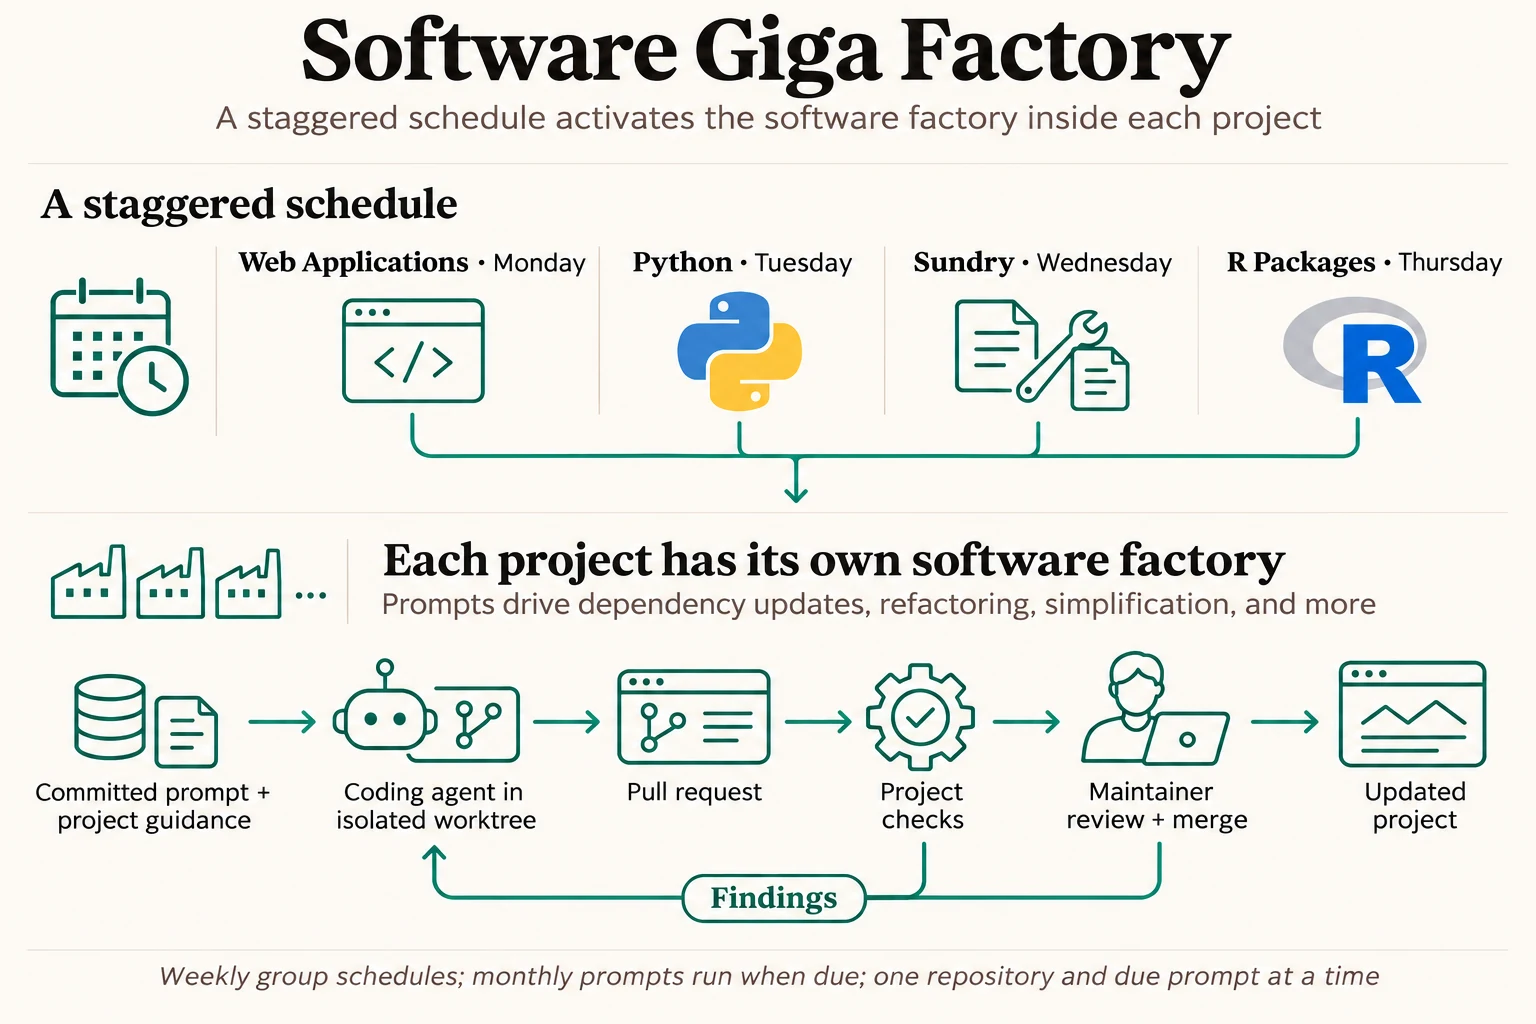
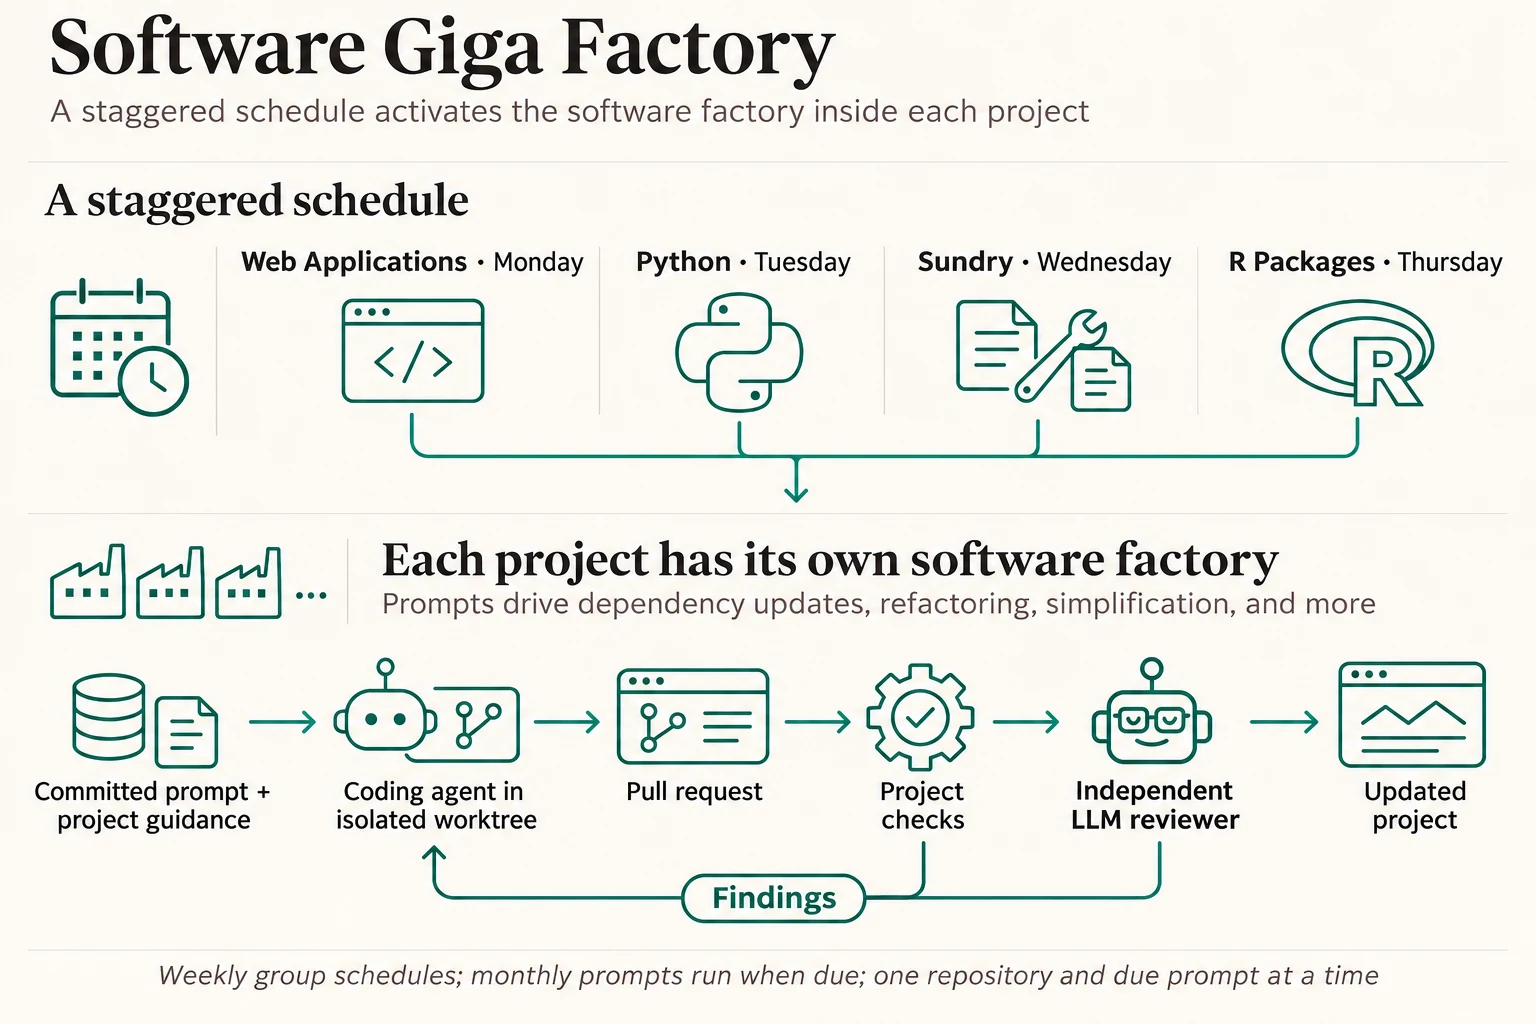
docs(illustrations): show independent llm review (#24)
## Summary

- Restyle the Software Giga Factory illustration to match the
architecture figure.
- Show monochrome Python and R marks and a complete project workflow
with an independent LLM reviewer.
- Synchronise the illustration prompt and README description.

## Validation

- `make hooks`
- `make docs`
- `git diff --check`

## Preview

![Software Giga Factory
illustration](https://raw.githubusercontent.com/IndrajeetPatil/llm-dependabot/docs/independent-llm-reviewer/docs/images/giga-factory.webp)

diff --git a/docs/images/README.md b/docs/images/README.md
@@ -80,17 +80,17 @@ Keep the three horizontal bands aligned, with summaries left and flows right. Ex
 
 
 ```text
-Use case: infographic-diagram. Asset type: README overview illustration for llm-dependabot, a scheduler that runs repository-owned coding prompts with an agent. Create a landscape 3:2 editorial diagram titled exactly “Software Giga Factory”. Show a hierarchy: a staggered schedule coordinates many software projects, and each project contains its own software factory. The schedule hub is the Giga Factory; the project-level development and review cycle is a factory repeated independently in each project.
+Use case: infographic-diagram. Asset type: README overview illustration for llm-dependabot, a scheduler that runs repository-owned coding prompts with an agent. Create a landscape 3:2 editorial diagram titled exactly “Software Giga Factory”. Use docs/images/architecture-overview.webp, “How llm-dependabot works”, as the visual style reference: warm paper #faf8f4, ink #201d18, muted ink #5d574c, hairlines #e3ded2, restrained teal #14584d, Fraunces-like serif headings, Hanken-like sans labels, flat single-colour outline icons, thin orthogonal arrows, and generous whitespace. Match its restrained typography, linework, separators, and clear band hierarchy. Use monochrome teal outline interpretations of the Python and R marks, never their colourful official marks. No shadows, gradients, texture, 3D, cards, emoji, decorative footer, or invented statistics. Keep text legible at README width. British English.
 
-Use warm paper #faf8f4, ink #201d18, muted ink #5d574c, hairlines #e3ded2, and restrained teal #14584d for technology icons and active paths. Use Fraunces-like serif headings, Hanken-like sans labels, flat outline icons, precise arrows, and generous whitespace. Keep official Python and R logos in their official colours. No shadows, gradients, texture, 3D, cards, emoji, decorative footer, or invented statistics. Keep text legible at README width. British English.
+Title exactly “Software Giga Factory”. Subtitle exactly “A staggered schedule activates the software factory inside each project”. Show a hierarchy: a staggered schedule coordinates many software projects, and each project contains its own software factory. The schedule hub is the Giga Factory; the project-level development and review cycle is a factory repeated independently in each project.
 
-Subtitle exactly “A staggered schedule activates the software factory inside each project”.
+Use two distinct horizontal bands separated by fine hairlines. Put each serif band heading and its one-line muted summary at the left, with its flow on the right, following the reference illustration's spacious editorial layout.
 
-Top band “A staggered schedule”: show a calendar/clock icon and four project groups: “Web Applications · Monday” with a browser/code icon; “Python · Tuesday” with the official Python logo; “Sundry · Wednesday” with a mixed-files icon; and “R Packages · Thursday” with the authentic R logo. Connect these groups to the project-level factory below. Use a repeated-factory motif with an ellipsis to show that many project repositories each contain their own copy of the same factory.
+Top band “A staggered schedule”: show a calendar/clock icon and four project groups: “Web Applications · Monday” with a browser/code icon; “Python · Tuesday” with a monochrome teal outline Python mark; “Sundry · Wednesday” with a mixed-files icon; and “R Packages · Thursday” with a monochrome teal outline R mark. Connect these groups to the project-level factory below. Use a repeated-factory motif with an ellipsis to show that many project repositories each contain their own copy of the same factory.
 
-Lower band “Each project has its own software factory”, summary exactly “Prompts drive dependency updates, refactoring, simplification, and more”. Show one example of the repeated project-local flow: “Committed prompt + project guidance” → “Coding agent in isolated worktree” → “Pull request” → “Project checks” → “Maintainer review + merge” → “Updated project”. Draw clear feedback loops from Project checks and Maintainer review back to Coding agent, labelled “Findings”. This represents project-local fixes before merge; llm-dependabot does not approve or merge pull requests. Keep the scheduled groups and project-local factory as separate levels.
+Lower band “Each project has its own software factory”, summary exactly “Prompts drive dependency updates, refactoring, simplification, and more”. Make the entire project-local factory prominent and unmistakable. Show every stage in this exact order, with a separate clear outline icon and readable label for each: “Committed prompt + project guidance” → “Coding agent in isolated worktree” → “Pull request” → “Project checks” → “Independent LLM reviewer” → “Updated project”. Show “Independent LLM reviewer” with a friendly outline robot with simple glasses. Draw clear feedback loops from both “Project checks” and “Independent LLM reviewer” back to “Coding agent in isolated worktree”, labelled “Findings”. This represents project-local fixes before merge; llm-dependabot does not approve or merge pull requests. Keep the scheduled groups and project-local factory as separate levels.
 
-Footer note exactly “Weekly group schedules; monthly prompts run when due; one repository and due prompt at a time”. Do not show Mac, Apple, launchd, shell commands, private repository names, credentials, or exact monthly dates. Ensure every label is exact, arrows are clear, and the repeated project-local factory is unmistakable.
+Footer note exactly “Weekly group schedules; monthly prompts run when due; one repository and due prompt at a time”. Do not show Mac, Apple, launchd, shell commands, private repository names, credentials, or exact monthly dates. Ensure every label is exact, spelling is correct, arrows are distinct and clear, and all factory stages are visible at README width.
 ```
 ### Process and run
 

diff --git a/README.md b/README.md
@@ -44,7 +44,7 @@ fixing what Google Search Console reports, or other repeatable work. The
 prompts define the work, and each project provides its own instructions,
 checks, and review process.
 
-![Software Giga Factory: a staggered schedule activates each project’s software factory. Prompts drive dependency updates, refactoring, simplification, and more; each runs in an isolated worktree, opens a pull request, and passes through project checks and maintainer review, with findings returned for fixes. Weekly group schedules, monthly prompts when due, one repository and due prompt at a time.](https://raw.githubusercontent.com/IndrajeetPatil/llm-dependabot/main/docs/images/giga-factory.webp)
+![Software Giga Factory: a staggered schedule activates each project’s software factory. Prompts drive dependency updates, refactoring, simplification, and more; each runs in an isolated worktree, opens a pull request, and passes through project checks and independent LLM review, with findings returned for fixes. Weekly group schedules, monthly prompts when due, one repository and due prompt at a time.](https://raw.githubusercontent.com/IndrajeetPatil/llm-dependabot/main/docs/images/giga-factory.webp)
 
 - **Opt in per repository and prompt:** a repository takes part in each
   prompt it commits, such as `.github/prompts/update-deps.md` or
